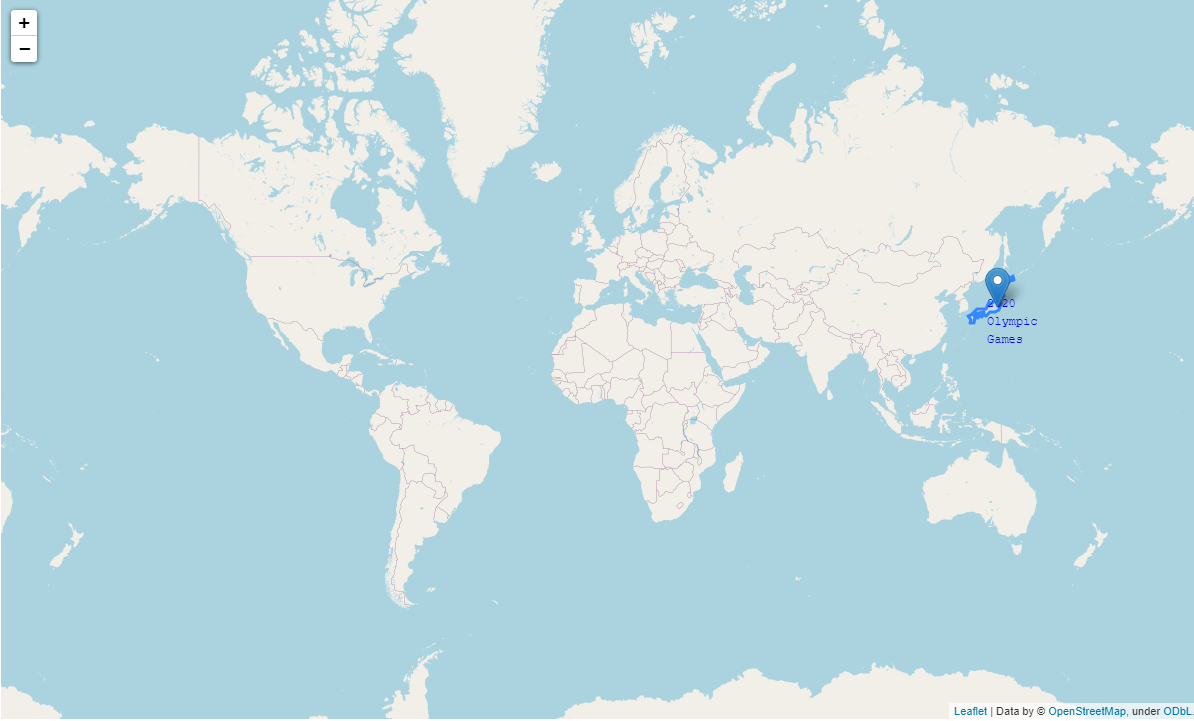
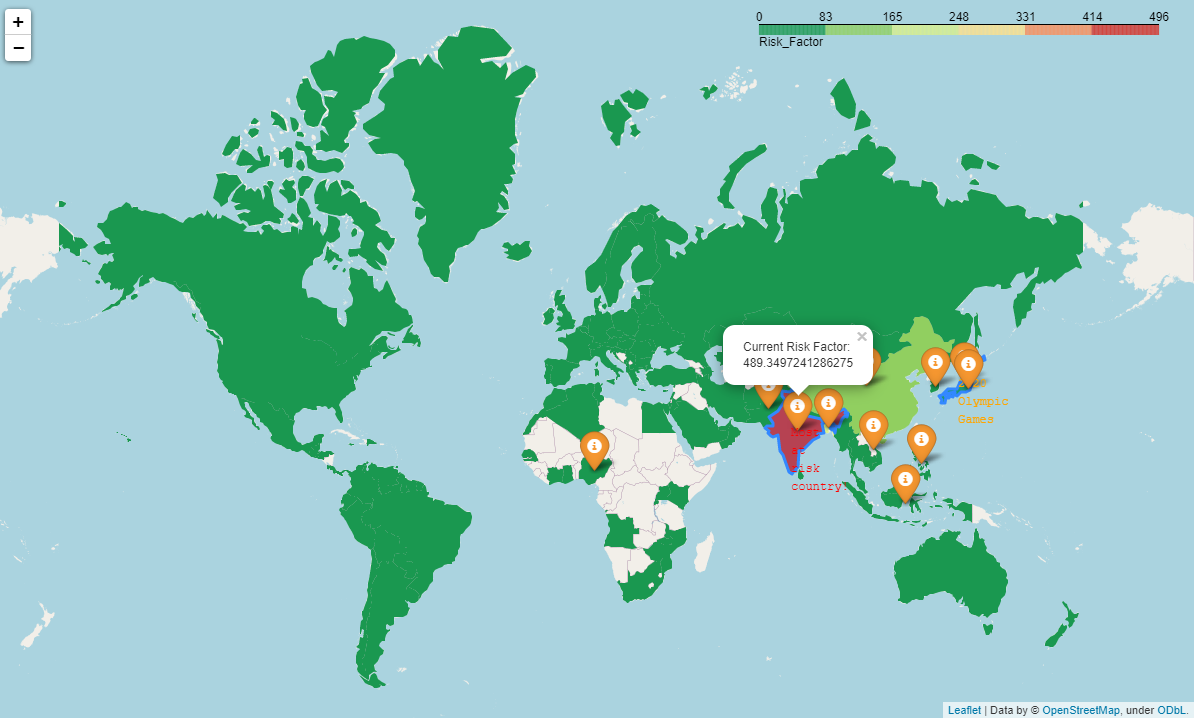
Fig 4 re-created

diff --git a/UCDA-Derek_Baker.py b/UCDA-Derek_Baker.py
@@ -349,28 +349,90 @@ geo_cv_gdp_pop_loc.plot( "Days_Administered", legend = True, cmap ="RdYlGn", fig
 ######################################
 
 ## folium ##
-m = folium.Map(location=[20, 0], tiles="OpenStreetMap", zoom_start=2)
+# Create an empty map
+world = folium.Map(location=[20, 0], tiles="OpenStreetMap", zoom_start=2)
+# display(world)
 
-# Tokyo stadium marker
-Tokyo_Stadium = folium.Marker(location=[35.67785955, 139.71351420013758], popup="Tokyo Stadium").add_to(m)
-display(m)
+# Create countries risk dataframe
+top_risk = pd.merge(geo_cv_gdp_pop_loc[["lng", "lat", "id", "name", "geometry"]],
+                    cv_gdp_pop_geo[["Risk_Factor", "Current_Risk_Factor", "Risk_Factor_Reduced", "id"]],
+                    on="id")
+# Sort the dataframe by risk factor for iterating the top 10
+top_risk = top_risk.sort_values("Risk_Factor", ascending=False).reset_index(drop=True)
 
-# PLace text on the map stating 2020 olympics
-folium.Marker(
-      location=[Japan_geo['lat'], Japan_geo['lng']],
-      popup=Japan_geo['name'],
-      icon=folium.DivIcon(html=f"""<div style="font-family: courier new; color: blue">{"2020 Olympic Games"}</div>""")
-   ).add_to(m)
+# Create a choropleth and add it to the map
+folium.Choropleth(
+geo_data=top_risk,
+data=top_risk,
+columns=['id',"Risk_Factor"],
+key_on="feature.properties.id",
+fill_color='RdYlGn_r',
+fill_opacity=1,
+line_opacity=0.2,
+legend_name="Risk_Factor",
+smooth_factor=0,
+Highlight= True,
+line_color = "#0000",
+name = "name",
+show=False,
+overlay=True,
+nan_fill_color = "gray"
+).add_to(world)
+# display(world)
 
+# add marker one by one on the map for the top ten most at risk countries
+for i in range(0, 10):
+   folium.Marker(
+      location=[top_risk.iloc[i]['lat'], top_risk.iloc[i]['lng']],
+      popup="Current Risk Factor: " + str(top_risk.iloc[i]["Current_Risk_Factor"]),
+       tooltip=top_risk.iloc[i]["name"],
+       icon=folium.Icon(color='orange')
+   ).add_to(world)
+# display(world)
+
+# The olypics are starting soon but will they be ready? They're 8th most at risk out of the 110 countries listed
 # Create Japan Geodataframe
 # Create a list object Japan
 Japan = ["Japan"]
 # Find Japan
 Japan_row = geo_cv_gdp_pop_loc["name"].isin(Japan)
 Japan_geo = geo_cv_gdp_pop_loc[Japan_row]
+
 # Add the geometry shape of Japan to the interactive map
-folium.GeoJson(Japan_geo.geometry).add_to(m)
-display(m)
+folium.GeoJson(Japan_geo.geometry).add_to(world)
+# display(world)
+
+# PLace text on the map stating "2020 olympic Games"
+folium.Marker(
+      location=[Japan_geo['lat'], Japan_geo['lng']],
+      popup=Japan_geo['name'],
+      icon=folium.DivIcon(html=f"""<div style="font-family: courier new; color: orange">{"2020 Olympic Games"}</div>""")
+   ).add_to(world)
+# display(world)
+
+# Tokyo stadium marker
+Tokyo_Stadium = folium.Marker(location=[35.67785955, 139.71351420013758], tooltip="Tokyo Stadium", icon=folium.Icon(color='orange')).add_to(world)
+# display(world)
+
+
+# India is the most at risk country
+# Create India Geodataframe
+# Create a list object Japan
+India = ["India"]
+# Find Japan
+India_row = geo_cv_gdp_pop_loc["name"].isin(India)
+India_geo = geo_cv_gdp_pop_loc[India_row]
+
+# Add the geometry shape of Japan to the interactive map
+folium.GeoJson(India_geo.geometry).add_to(world)
+# display(world)
+
+# PLace text on the map stating "Most at risk Country"
+folium.Marker(
+      location=[India_geo['lat'], India_geo['lng']],
+      icon=folium.DivIcon(html=f"""<div style="font-family: courier new; color: red">{"Most at risk country!"}</div>""")
+   ).add_to(world)
+display(world)
 
 
 ########################################
